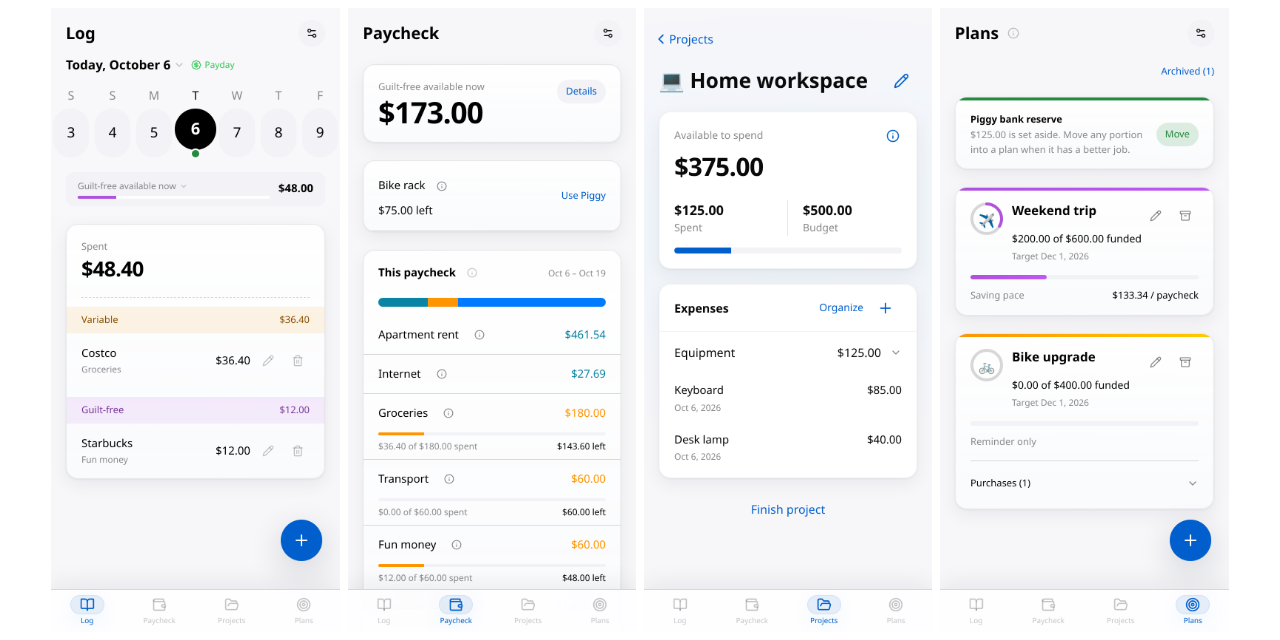
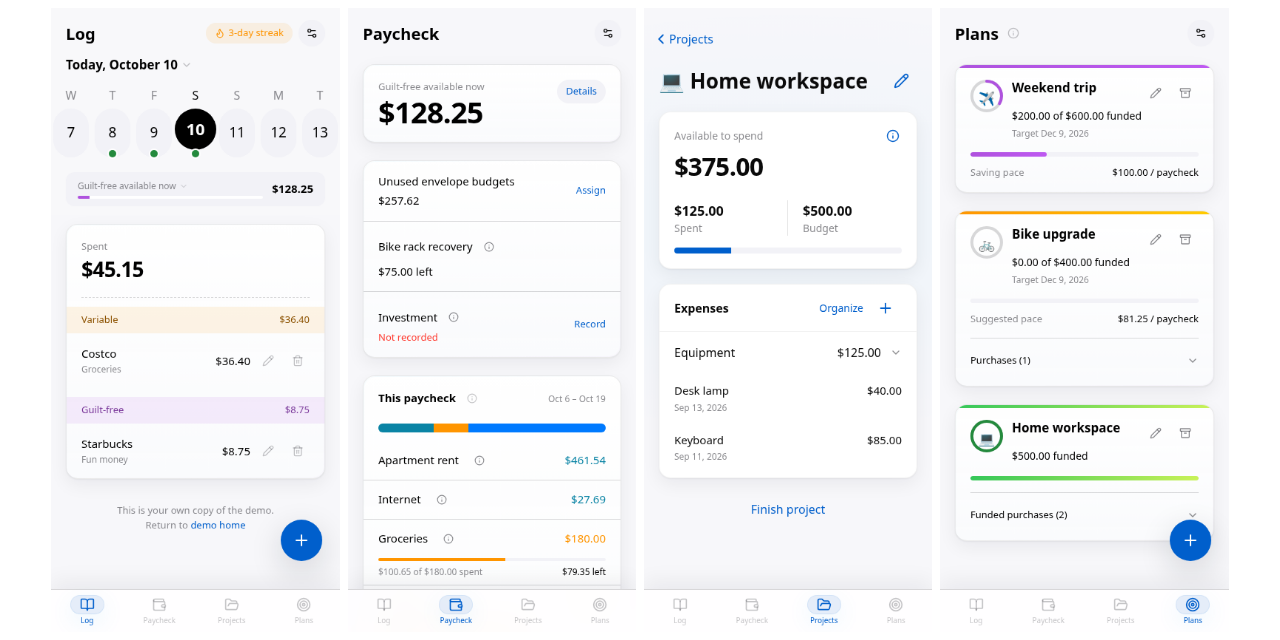
Replace release screenshots with one consistent demo snapshot

diff --git a/docs/DEMO.md b/docs/DEMO.md
@@ -1,140 +1,81 @@
-# A walkthrough with made-up money
+# Try it with made-up money
 
-Try the [live demo](https://jings-finance-demo.vercel.app/demo) without an email or password. **Start demo** opens Log with your own copy of the example records. You can change them and explore the app. Other visitors get their own copies.
+Open the [live demo](https://jings-finance-demo.vercel.app/demo) and choose **Start demo**. It opens Log without asking for an email or password. Your copy lasts 12 hours. Other visitors get their own copies.
 
 The app works best on a phone. On a wider screen, choose **Proceed anyway** to try it there.
 
-Your demo copy lasts 12 hours. After that, your changes are deleted. Start again with fresh example data.
+## One example across four screens
 
-The live demo includes two months of rent and Internet payments. Open Paycheck → History → By month to see them. These example bills were paid early; their next reminders are for the following monthly payments.
+These pictures show one demo copy on October 10, 2026. I added a $36.40 Costco grocery purchase before taking them. No spending or funding changed between the four pictures.
 
-The screenshots below show a separate example built through the app, from setup to later paydays. Its dates and amounts differ from the live demo. All of its money is made up.
+A fresh demo uses the date you start it. Its dates will differ, but you can try the same steps with your own copy.
 
-## The example budget
+The example has $2,000 take-home pay every two weeks. Its monthly budgets are $1,000 for rent, $60 for Internet, $390 for Groceries, $130 for Transport, and $130 for Fun money.
 
-The opening screenshots use October 6, 2026, with the next rent and Internet payments due October 13. The later screenshots go through November 5.
+## Log: what I spent today
 
-| Setup | Fictional value |
-| --- | --- |
-| Take-home | $2,000 every two weeks |
-| Apartment rent | $1,000 monthly; next due seven days after setup |
-| Internet | $60 monthly; next due seven days after setup |
-| Groceries | $390 monthly; Variable; release leftovers each paycheck |
-| Transport | $130 monthly; Variable; release leftovers each paycheck |
-| Fun money | $130 monthly; Guilt-free; keep leftovers in the envelope |
+Today has two purchases:
 
-With this budget, the opening paycheck sets aside $180 for Groceries, $60 for Transport, and $60 for Fun money. The app spreads monthly budgets across 26 paychecks a year; see [the money rules](ACCOUNTING.md#why-a-monthly-amount-is-not-always-split-in-half) for the math.
-
-## 1. Set up a personal copy
-
-A personal copy starts with signup and setup. Enter pay, timezone, bills, and envelopes. The live demo has already done this for you.
-
-<img src="screenshots/01-sign-in.png" width="300" alt="Jing’s Finance App sign-in page with an empty email and password form">
-<img src="screenshots/02-onboarding-pay.png" width="300" alt="Onboarding with two-thousand-dollar biweekly pay and America/New_York timezone">
-
-## 2. See what the paycheck can cover
-
-Paycheck shows where the money needs to go and what is left to invest. Guilt-free available now starts with $60 from Fun money. Open **More details** to see the extra rows.
-
-<img src="screenshots/03-paycheck-start.png" width="300" alt="Opening paycheck with sixty dollars available for guilt-free spending">
-
-## 3. Record everyday spending
-
-In Log, add $36.40 to Groceries with the description Costco, then $12 to Fun money with the description Starbucks. Use any description you will recognize. The envelope already tells the app what kind of spending it is. Review each formatted amount before saving. Fun money now has $48 left.
-
-<img src="screenshots/04-daily-log.png" width="300" alt="Daily Log containing fictional Costco and Starbucks purchases in their spending envelopes">
-
-## 4. Give saved money a purpose
-
-In Plans, create these three examples. Set their target dates eight weeks after setup.
-
-Open Appearance in each Plan form to choose its icon and color.
-
-| Plan | Icon / color | Target | Already saved | Save from paychecks |
-| --- | --- | --- | --- | --- |
-| Weekend trip | ✈ / Lilac | $600 | $200 | On; start with the next paycheck |
-| Home workspace | 💻 / Ocean | $500 | $500 | Off |
-| Bike upgrade | 🚲 / Sunset | $400 | $0 | Off |
-
-Weekend trip shows how much to save each eligible payday. Already saved means money set aside before creating the Plan. Home workspace has its full $500 saved, so its progress bar is green.
-
-<img src="screenshots/05-plans.png" width="300" alt="Three fictional Plans with saved balances and a scheduled saving pace">
-
-## 5. Buy within a funded Project
-
-In Projects, choose Add project and select Home workspace. Open Organize, choose Add group, enter Equipment, and select Done. Record a Keyboard for $85 and a Desk lamp for $40, choosing Equipment in each purchase form. The $500 already saved covers both purchases, leaving $375 available.
-
-<img src="screenshots/06-project-funded.png" width="300" alt="Home workspace Project with funded keyboard and lamp purchases grouped as Equipment">
-
-## 6. See a purchase that needs future money
-
-Add Bike upgrade as another Project and use Organize to create a Parts group. Enter a $75 Bike rack and choose Parts in the purchase form. Before saving, the form shows that $75 needs future paychecks. After saving, the Project still shows that need. Choosing a later date does not turn this purchase into an already-funded one.
-
-<img src="screenshots/07-purchase-future.png" width="300" alt="Bike rack purchase form showing seventy-five dollars that needs future paychecks">
-<img src="screenshots/08-project-future.png" width="300" alt="Bike upgrade Project with its rack listed under Parts and a remaining future funding requirement">
-
-## 7. Finish the funded Project
-
-Return to Home workspace and choose Finish project. Review $125 spent and $375 ready to reallocate, then choose Finish and release. Paycheck now shows the $375 waiting to be assigned. The bike still needs its own future money.
-
-<img src="screenshots/09-finish-project.png" width="300" alt="Finish confirmation showing one hundred twenty-five dollars spent and three hundred seventy-five dollars ready to reallocate">
-
-## 8. Choose where the released money goes
-
-Open the $375 waiting to be assigned on Paycheck. Allocate $125 to Piggy reserve and the remaining $250 to Investment. Review the split and confirm. The app keeps a record that this money came from finishing the workspace.
-
-<img src="screenshots/10-reallocate-review.png" width="300" alt="Allocation review for one hundred twenty-five dollars to Piggy and two hundred fifty dollars to Investment">
-
-## 9. Record the transfer you actually made
-
-Under Investment, choose Record and enter an actual transfer of $80. The investment suggestion remains a separate planning number. Piggy reserve raises the Guilt-free available now total to $173: $48 in Fun money plus $125 assigned to Piggy.
-
-<img src="screenshots/11-paycheck-recorded.png" width="300" alt="Paycheck showing one hundred seventy-three dollars of discretionary money after reallocation">
-<img src="screenshots/15-investment-details.png" width="300" alt="Investment details showing the actual eighty-dollar transfer separately from the suggested amount">
-
-## 10. Review what remains
-
-Settings shows the same pay, bills, and envelopes entered during setup. Because this account has already used money, bill and envelope changes start next paycheck. An unused paycheck can be changed right away. Projects keeps the completed workspace separate from the active bike upgrade, and Plans keeps the remaining saving and funding needs visible.
-
-<img src="screenshots/12-settings.png" width="300" alt="Main Settings showing pay, bills, envelopes, password reset, and sign out">
-<img src="screenshots/13-projects-list.png" width="300" alt="Projects list with the completed workspace and active bike upgrade">
-<img src="screenshots/14-plans-after-release.png" width="300" alt="Plans after project completion and reassignment of the released money">
-
-## Follow the account across paydays
-
-The same example continues from October 6 through November 5. These screenshots show what later spending and paydays add to History. The app has no button for changing its clock.
-
-| Date | Added activity |
-| --- | --- |
-| October 7 | Sam’s Club $88.15 in Groceries, Shell $38 in Transport, Dunkin’ $5.75 in Fun money. |
-| October 13 | Confirm Apartment rent $1,000 and Internet $60 on their due date. |
-| October 20 | A new paycheck; Walmart $54.23, Shell $42, AMC $18, $100 income from Facebook Marketplace, and a $400 actual investment transfer. |
-| October 25 | ALDI $24.85, Uber $14, AMC $16. |
-| November 3 | Another paycheck; the app records eligible saving and funding. |
-| November 5 | Costco $64.25, Shell $39.50, Starbucks $8.75. |
-
-The expanded breakdown shows where the November paycheck goes. History contains October 6–19 and October 20–November 2, with income and spending for each. **By month** brings the October activity together. The $80 and $400 investment records stay with their own paychecks.
-
-| History period | Income | Spending |
+| Description | Envelope | Amount |
 | --- | --- | --- |
-| October 6–19 | $2,000.00 | $1,440.30 |
-| October 20–November 2 | $2,100.00 | $169.08 |
-| October by month | $4,100.00 | $1,609.38 |
+| Costco | Groceries | $36.40 |
+| Starbucks | Fun money | $8.75 |
+| Total spent today | | $45.15 |
 
-After two scheduled contributions, Weekend trip has $466.67 saved. Opening the pages again does not add the same saving twice.
+Fun money has **$128.25 left**. That includes money kept from earlier paychecks. The $45.15 spent today includes groceries too, so it is a different number.
 
-<img src="screenshots/16-paycheck-breakdown.png" width="350" alt="Full expanded November paycheck breakdown showing bills, spending envelopes, saving, and the investment remainder">
-<img src="screenshots/17-paycheck-history.png" width="300" alt="Populated History card showing two past paychecks with income and spending">
-<img src="screenshots/18-history-detail.png" width="300" alt="A past paycheck receipt with its income and spending details">
-<img src="screenshots/19-paycheck-month-history.png" width="300" alt="History grouped by month with October income and spending">
-<img src="screenshots/20-log-later-paycheck.png" width="300" alt="November daily Log with fictional Costco, Shell, and Starbucks entries">
-<img src="screenshots/21-plans-later-paycheck.png" width="300" alt="Plans after scheduled funding across later paychecks">
-<img src="screenshots/22-log-bill-payments.png" width="300" alt="October 13 Log showing confirmed rent and internet payments">
+<img src="screenshots/log.png" width="300" alt="October 10 Log with Costco for $36.40, Starbucks for $8.75, and $128.25 of fun money left">
 
-These pictures keep their capture dates. Your app continues with the current date in your saved timezone. Read [the user guide](USER_GUIDE.md) for daily use.
+To try a purchase, tap **+**, enter an amount and description, choose an envelope, and save. You can use any description you will remember, such as Costco or dinner with mom.
 
-## Recreate this example in your own test copy
+## Paycheck: where the money goes
 
-Use a separate empty [personal installation](INSTALL.md) and a new account. Leave demo mode unset; ordinary setup does not add sample records. Enter the budget above through the forms, then follow the steps. If you start later, move the bill and Plan dates forward too. Keep example money separate from your personal records.
+Paycheck shows the same **$128.25** available for fun money. The current paycheck runs from October 6 through October 19.
 
-People changing date behavior should read [testing](TESTING.md#recorded-date-checks).
+Its breakdown sets aside money for bills and envelopes before showing **$1,210.77 available to invest**. That is a planning amount. No investment transfer has been recorded for this paycheck.
+
+There is also **$257.62 of unused envelope budgets** from earlier paychecks waiting to be assigned. Choose **Assign** to give that money a place to go.
+
+<img src="screenshots/paycheck.png" width="300" alt="The same October paycheck with $128.25 of fun money and $257.62 waiting to be assigned">
+
+## Projects: what I bought for a Plan
+
+Home workspace is a Project under the Home workspace Plan. It started with **$500 funded** and has two purchases in Equipment:
+
+| Purchase | Amount |
+| --- | --- |
+| Keyboard | $85.00 |
+| Desk lamp | $40.00 |
+| Total spent | $125.00 |
+| Money left to spend | $375.00 |
+
+<img src="screenshots/project.png" width="300" alt="Home workspace Project with $500 budgeted, $125 spent, and $375 available">
+
+You can add groups such as Equipment or Parts to keep related purchases together. When the Project is finished, **Finish project** lets you review and release its unused funded money. This Project has not been finished yet.
+
+## Plans: what the purchases belong to
+
+The same **Home workspace** appears in Plans. Its **$500 funded** includes the $125 already used for its two funded purchases and the $375 still available. It does not mean there is another $500 to spend.
+
+Weekend trip has $200 funded toward a $600 target. Saving from paychecks starts October 20, with a pace of $100 per paycheck toward December 9.
+
+Bike upgrade has no funded money yet. Its $75 Bike rack purchase still needs funding. If you add money to Bike upgrade, the app covers that purchase first, then keeps any extra saved for later purchases.
+
+<img src="screenshots/plans.png" width="300" alt="Plans with Weekend trip, Bike upgrade, and the same Home workspace with two funded purchases">
+
+## The full breakdown and history
+
+This is the whole Paycheck page from the same demo copy, with its details open. **More details** shows the bill payments and remaining envelope money. Groceries has $79.35 left after the earlier Costco purchase and today's $36.40 purchase.
+
+History keeps the earlier paycheck records together. The example includes rent and Internet payments, daily purchases, and earlier investment records.
+
+| Earlier paycheck | Income | Spending |
+| --- | --- | --- |
+| September 8–21 | $2,000.00 | $1,336.15 |
+| September 22–October 5 | $2,000.00 | $114.23 |
+
+<img src="screenshots/paycheck-full.png" width="350" alt="The whole Paycheck page with $128.25 of fun money, the October 6–19 breakdown, and the two earlier paychecks in History">
+
+Open a History row to see its details, or choose **By month** to review a whole month.
+
+Read the [user guide](USER_GUIDE.md) for more examples, or [install your own copy](INSTALL.md) to use the app for your own money.

diff --git a/README.md b/README.md
@@ -1,9 +1,9 @@
 <p align="center">
   <a href="https://jings-finance-demo.vercel.app/demo">
-    <img src="docs/screenshots/04-daily-log.png" width="23%" alt="Log with made-up Costco and Starbucks purchases">
-    <img src="docs/screenshots/11-paycheck-recorded.png" width="23%" alt="Paycheck showing where the money goes and what is left to invest">
-    <img src="docs/screenshots/06-project-funded.png" width="23%" alt="Projects with workspace purchases grouped as Equipment">
-    <img src="docs/screenshots/14-plans-after-release.png" width="23%" alt="Plans for a weekend trip and a bike upgrade">
+    <img src="docs/screenshots/log.png" width="23%" alt="Log with Costco and Starbucks purchases and $128.25 available for fun money">
+    <img src="docs/screenshots/paycheck.png" width="23%" alt="The same paycheck with $128.25 available for fun money">
+    <img src="docs/screenshots/project.png" width="23%" alt="Home workspace Project with $125 spent and $375 left from its $500 budget">
+    <img src="docs/screenshots/plans.png" width="23%" alt="Plans including the same Home workspace with $500 funded and two funded purchases">
   </a>
 </p>
 
@@ -93,15 +93,11 @@ Supported schedules are weekly, biweekly, semimonthly, and monthly. Dates follow
 
 ## Preview
 
-The screenshots at the top show Log, Paycheck, Projects, and Plans in the same order as the app. All screenshots use made-up money from the [walkthrough](docs/DEMO.md).
+The four screenshots show one demo copy on October 10, 2026, in the same order as the app: Log, Paycheck, Projects, and Plans.
 
-Here is the full paycheck breakdown and history after a few more paydays:
+Log and Paycheck both show $128.25 available for fun money. Home workspace is the same Plan and Project: $500 funded, $125 spent on a keyboard and lamp, and $375 left.
 
-| Full paycheck breakdown | Paycheck history |
-| --- | --- |
-| <img src="docs/screenshots/16-paycheck-breakdown.png" width="240" alt="Full expanded paycheck breakdown with bills, envelopes, saving, and the investment remainder"> | <img src="docs/screenshots/17-paycheck-history.png" width="240" alt="Populated History card with two past paychecks of fictional activity"> |
-
-See the [walkthrough with screenshots](docs/DEMO.md) for more examples.
+See the [walkthrough](docs/DEMO.md) for the full paycheck breakdown and history from this same copy. All of the money is made up. A fresh demo uses the date you start it, so its dates will differ from these pictures.
 
 ## What this app doesn’t do
 
